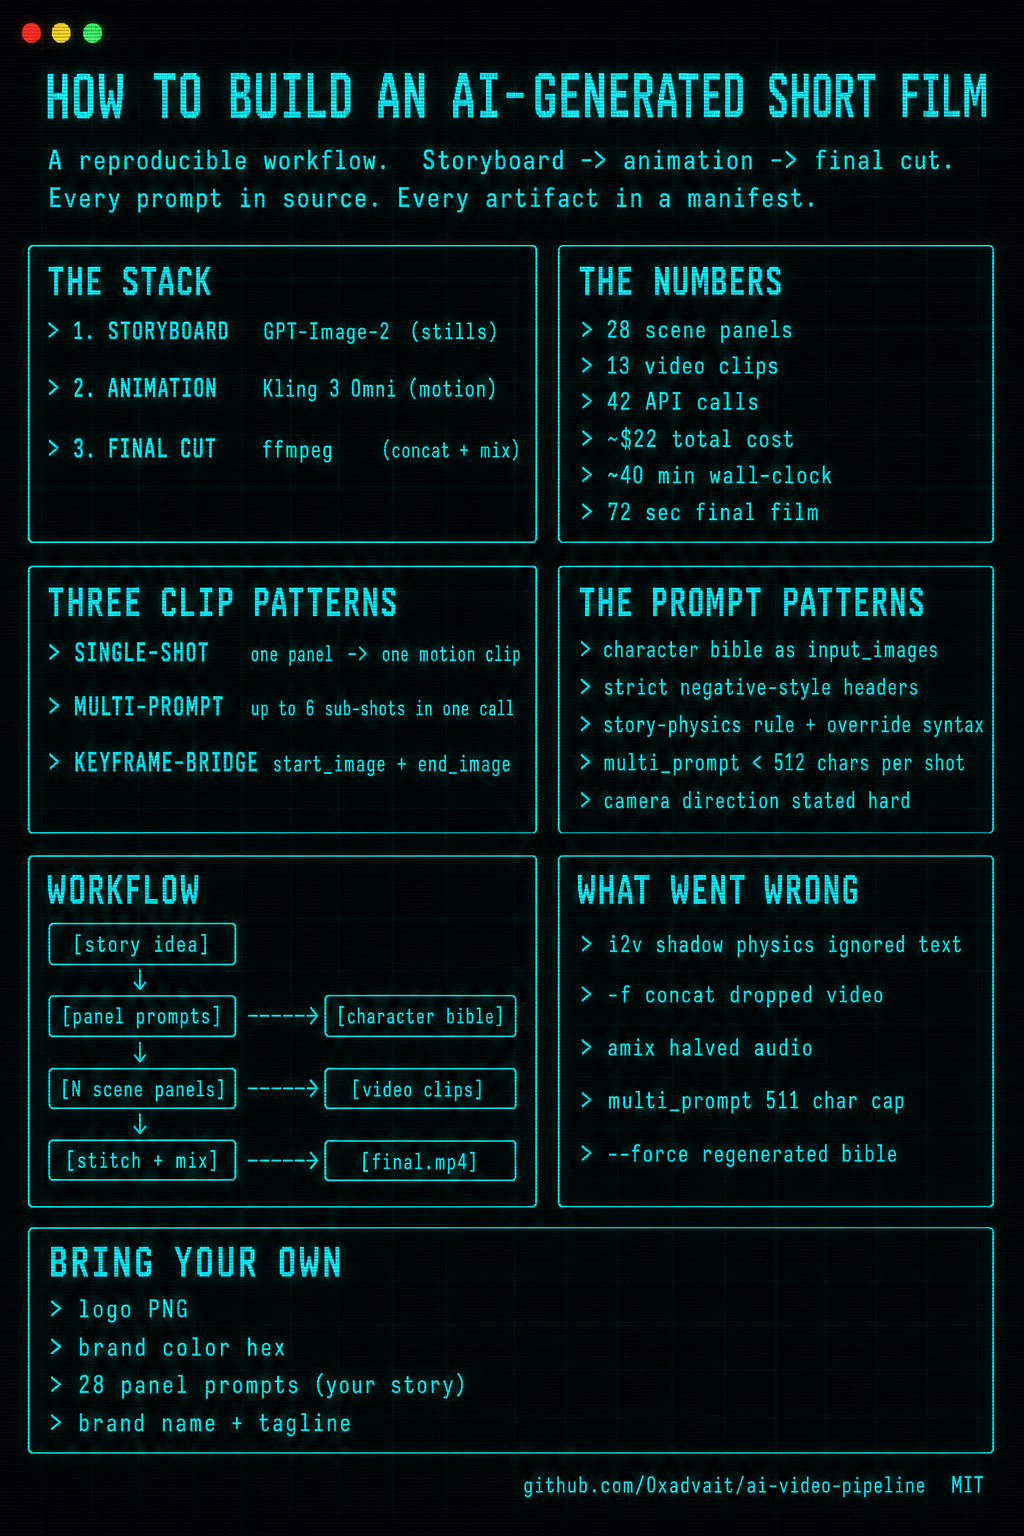
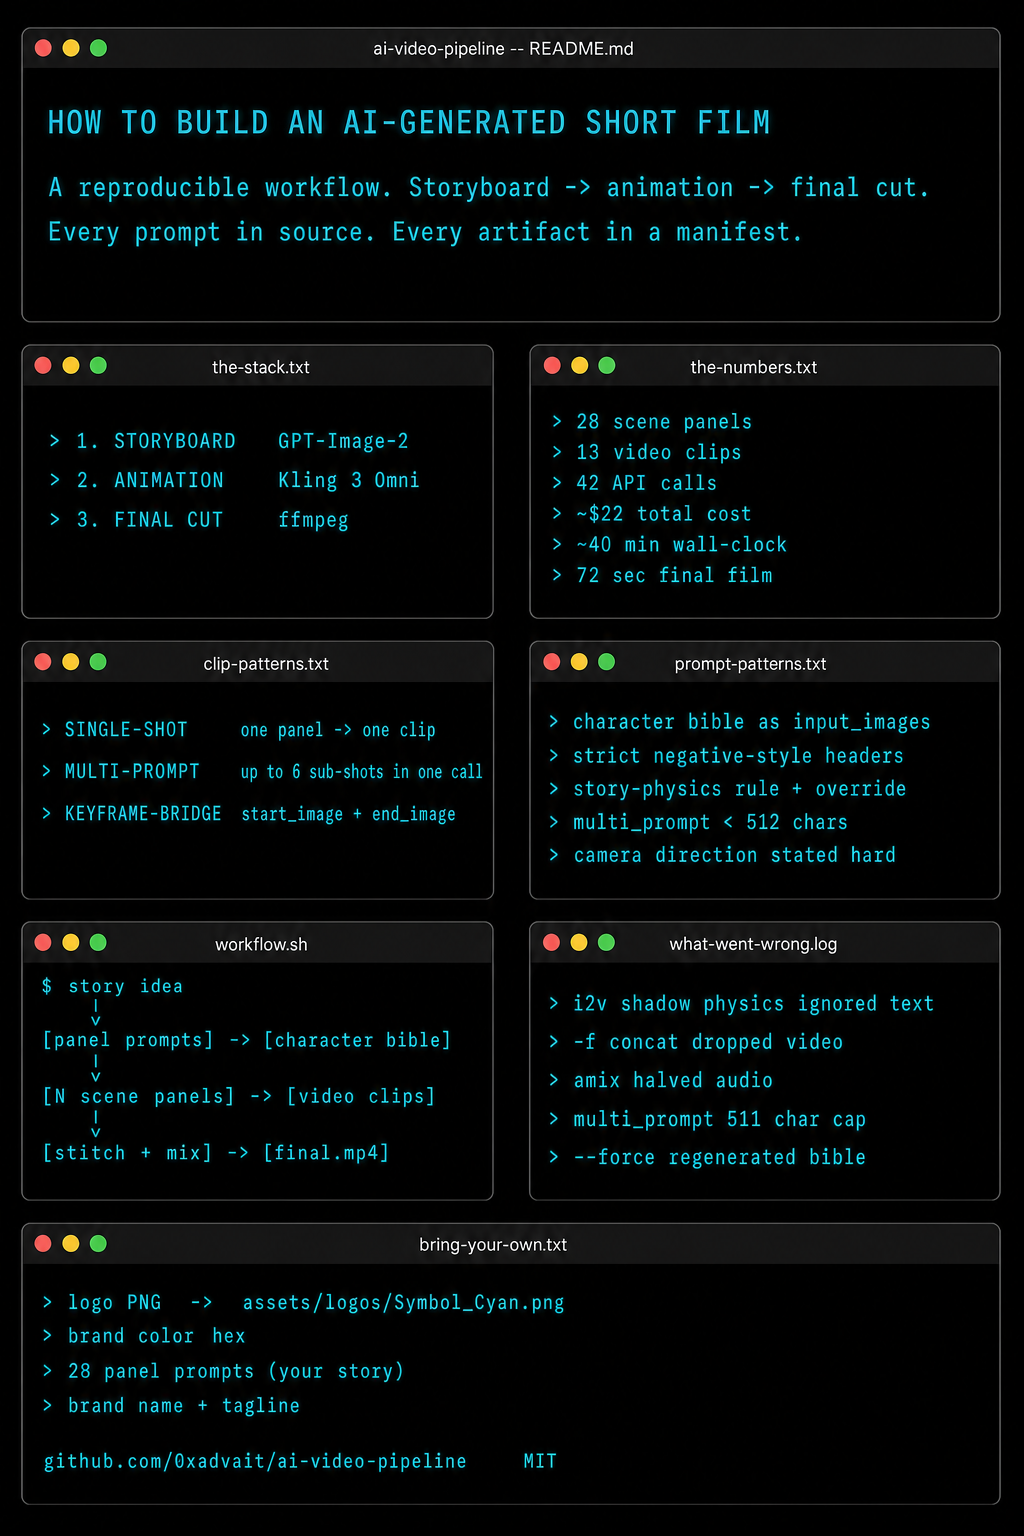
Diagram v2: tiled terminal-window aesthetic
Reworked the prompt to render the poster as 7 macOS Terminal.app windows
tiled on a black desktop, each with chrome (title bar + traffic-light dots
+ rounded corners) instead of generic bordered boxes. Cleaner visual story.

diff --git a/scripts/generate_pipeline_diagram.py b/scripts/generate_pipeline_diagram.py
@@ -22,77 +22,99 @@ LOG_PATH = ROOT / "assets" / "generate_pipeline_diagram.log"
 IMAGE_MODEL = "openai/gpt-image-2"
 
 
-PROMPT = """An information-dense technical infographic poster in a dark terminal
-aesthetic. Portrait orientation. Deep matte black background. ALL text rendered
-in glowing cyan exactly hex #24bce3 on black, in a clean monospaced terminal
-font (IBM Plex Mono / JetBrains Mono / Berkeley Mono register), crisp and
-legible, slight CRT phosphor glow. Light cyan grid lines faintly visible behind
-content. Bordered sections with thin cyan rectangle outlines. Bullet items
-marked with ">" character. Slight scanline texture overlay for terminal vibe.
+PROMPT = """A clean composition of SEVEN MACOS TERMINAL WINDOWS arranged in a
+grid on a deep matte black desktop wallpaper. Each window is a faithful macOS
+Terminal.app rendering: rounded corners, subtle drop shadow, dark charcoal
+title bar at top, THREE TRAFFIC-LIGHT DOTS in the title bar (red, yellow,
+green from left to right) in their correct macOS positions, with the window's
+title centered in the title bar in pale white text. The body of each window
+is pure black with monospaced terminal text in glowing cyan exactly hex
+#24bce3, clean and legible (think Berkeley Mono / IBM Plex Mono / JetBrains
+Mono), crisp not pixelated, with a faint CRT phosphor glow on the cyan text.
 
-TOP-LEFT CORNER: three small colored dots (red, yellow, green) like a macOS
-window bar.
+LAYOUT (portrait 2:3 canvas):
 
-TOP-CENTER TITLE in large all-caps stencil-monospaced cyan text:
-"HOW TO BUILD AN AI-GENERATED SHORT FILM"
+ROW 1 (one wide window spanning full width):
+  Window title bar: "ai-video-pipeline -- README.md"
+  Window content (large heading text):
+    HOW TO BUILD AN AI-GENERATED SHORT FILM
+    A reproducible workflow. Storyboard -> animation -> final cut.
+    Every prompt in source. Every artifact in a manifest.
 
-DIRECTLY UNDER TITLE in smaller cyan terminal text, two short lines:
-"A reproducible workflow.  Storyboard -> animation -> final cut."
-"Every prompt in source. Every artifact in a manifest."
+ROW 2 (two side-by-side windows):
+  LEFT WINDOW title bar: "the-stack.txt"
+  Body:
+    > 1. STORYBOARD    GPT-Image-2
+    > 2. ANIMATION     Kling 3 Omni
+    > 3. FINAL CUT     ffmpeg
 
-THE POSTER BODY IS DIVIDED INTO BORDERED SECTIONS:
+  RIGHT WINDOW title bar: "the-numbers.txt"
+  Body:
+    > 28 scene panels
+    > 13 video clips
+    > 42 API calls
+    > ~$22 total cost
+    > ~40 min wall-clock
+    > 72 sec final film
 
-SECTION 1 (top-left box) header "THE STACK":
-> 1. STORYBOARD   GPT-Image-2  (stills)
-> 2. ANIMATION    Kling 3 Omni (motion)
-> 3. FINAL CUT    ffmpeg       (concat + mix)
+ROW 3 (two side-by-side windows):
+  LEFT WINDOW title bar: "clip-patterns.txt"
+  Body:
+    > SINGLE-SHOT      one panel -> one clip
+    > MULTI-PROMPT     up to 6 sub-shots in one call
+    > KEYFRAME-BRIDGE  start_image + end_image
 
-SECTION 2 (top-right box) header "THE NUMBERS":
-> 28 scene panels
-> 13 video clips
-> 42 API calls
-> ~$22 total cost
-> ~40 min wall-clock
-> 72 sec final film
+  RIGHT WINDOW title bar: "prompt-patterns.txt"
+  Body:
+    > character bible as input_images
+    > strict negative-style headers
+    > story-physics rule + override
+    > multi_prompt < 512 chars
+    > camera direction stated hard
 
-SECTION 3 (mid-left box) header "THREE CLIP PATTERNS":
-> SINGLE-SHOT     one panel  ->  one motion clip
-> MULTI-PROMPT    up to 6 sub-shots in one call
-> KEYFRAME-BRIDGE start_image + end_image
+ROW 4 (two side-by-side windows):
+  LEFT WINDOW title bar: "workflow.sh"
+  Body (terminal command flow with arrows):
+    $ story idea
+      |
+      v
+    [panel prompts] -> [character bible]
+      |
+      v
+    [N scene panels] -> [video clips]
+      |
+      v
+    [stitch + mix] -> [final.mp4]
 
-SECTION 4 (mid-right box) header "THE PROMPT PATTERNS":
-> character bible as input_images
-> strict negative-style headers
-> story-physics rule + override syntax
-> multi_prompt < 512 chars per shot
-> camera direction stated hard
+  RIGHT WINDOW title bar: "what-went-wrong.log"
+  Body:
+    > i2v shadow physics ignored text
+    > -f concat dropped video
+    > amix halved audio
+    > multi_prompt 511 char cap
+    > --force regenerated bible
 
-SECTION 5 (lower-left box) header "WORKFLOW":
-A simple flowchart with labeled arrows showing the data flow:
-[story idea] -> [panel prompts] -> [character bible]
-              -> [N scene panels]  -> [video clips]
-              -> [stitch + mix]    -> [final.mp4]
+ROW 5 (one wide window spanning full width):
+  Window title bar: "bring-your-own.txt"
+  Body:
+    > logo PNG  ->  assets/logos/Symbol_Cyan.png
+    > brand color hex
+    > 28 panel prompts (your story)
+    > brand name + tagline
+    github.com/0xadvait/ai-video-pipeline    MIT
 
-SECTION 6 (lower-right box) header "WHAT WENT WRONG":
-> i2v shadow physics ignored text
-> -f concat dropped video
-> amix halved audio
-> multi_prompt 511 char cap
-> --force regenerated bible
-
-BOTTOM-CENTER  large box header "BRING YOUR OWN":
-> logo PNG
-> brand color hex
-> 28 panel prompts (your story)
-> brand name + tagline
-
-BOTTOM-RIGHT CORNER small text:
-"github.com/0xadvait/ai-video-pipeline   MIT"
-
-Visual style: cinematic dark terminal poster, like a developer's
-documentation render, very dense but every line of text legible. Monospaced
-font throughout. Cyan-on-black ONLY (no other colors except the three
-window dots in the corner). Print-poster proportions, portrait 2:3."""
+VISUAL RULES:
+- Every window has the same chrome aesthetic (rounded corners, thin border,
+  charcoal title bar, traffic-light dots, faint window shadow against black)
+- ALL body text is cyan #24bce3 on pure black, monospaced, crisp
+- Title bar text is pale grey-white
+- Spacing between windows is clean and balanced — like an organized desktop,
+  not chaotic
+- No other UI elements, no other colors except: traffic-light dots, cyan body
+  text, pale title bar text, deep black backgrounds
+- Portrait 2:3 aspect ratio overall
+- This should look exactly like a screenshot of someone's workspace with
+  seven Terminal windows tiled on a dark monitor"""
 
 
 def main() -> int:
